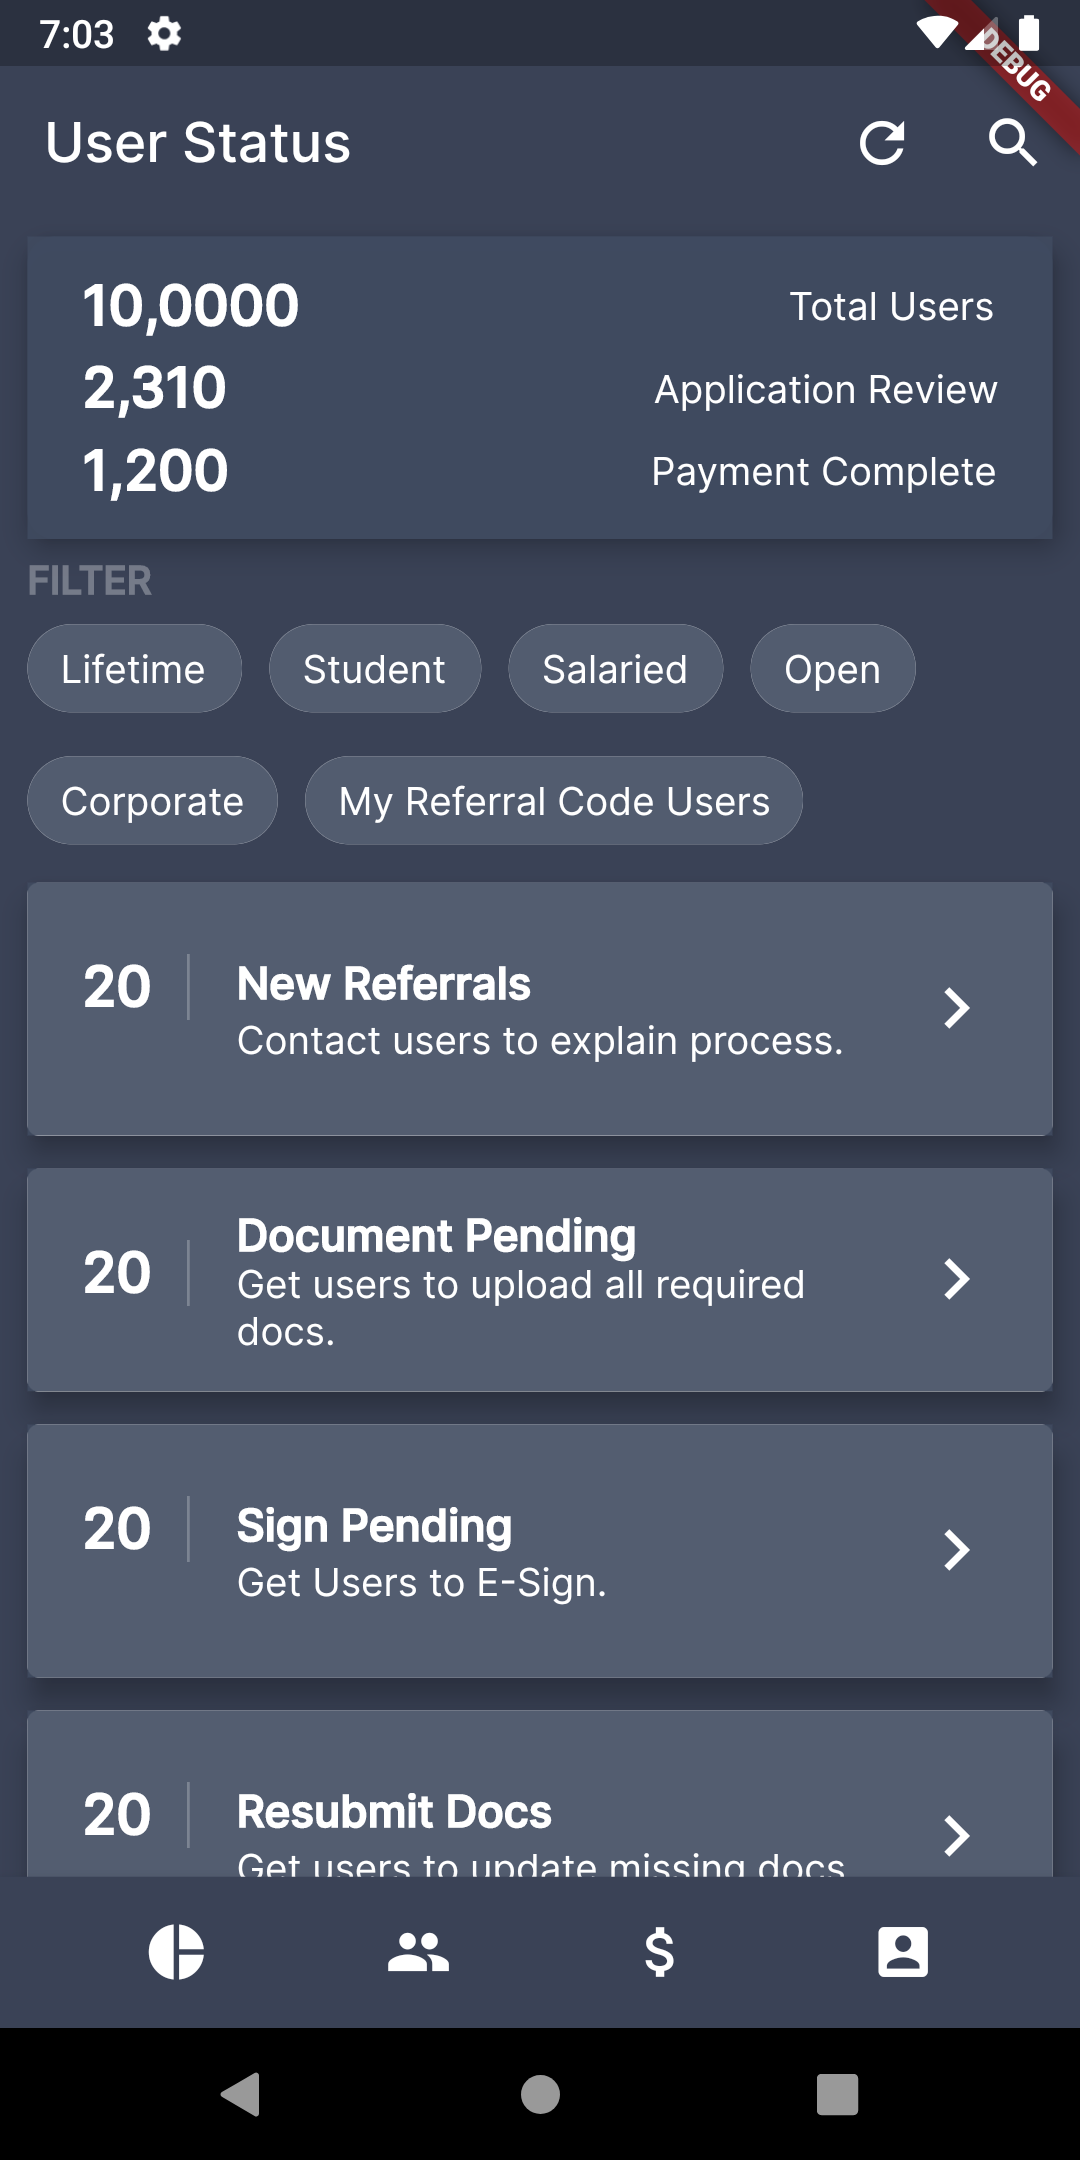
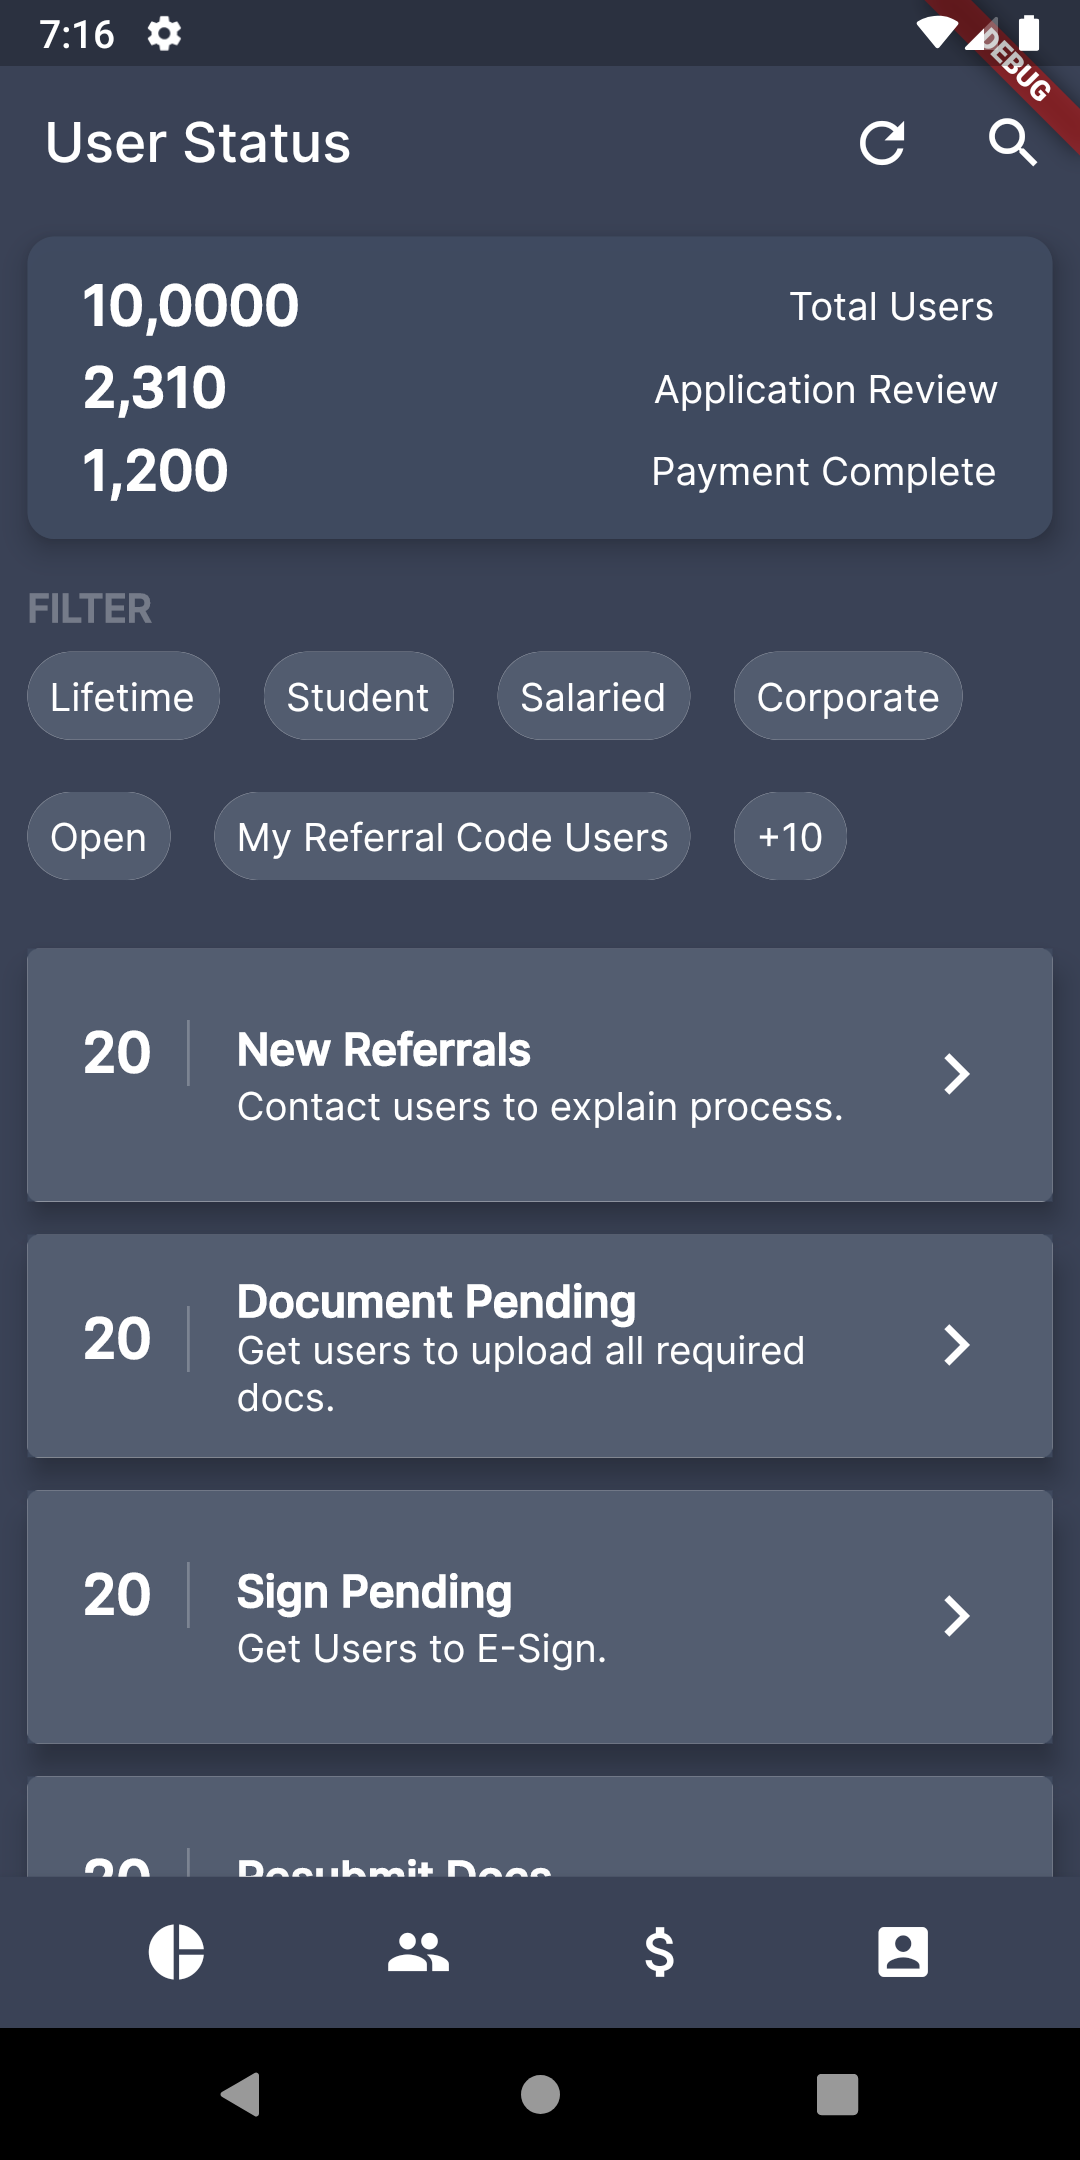
Fixed Roundness of first card and wrapped filter chips in WRAP Widget.

Changed region(s): [[0.0, 0.2481, 0.9778, 0.8685], [0.0611, 0.0, 0.0917, 0.031]]

diff --git a/lib/main.dart b/lib/main.dart
@@ -63,13 +63,17 @@ class _ListPageState extends State<ListPage> {
     ],
   );
 
-  final makeBody = Column(
+  static final makeBody = Column(
     crossAxisAlignment: CrossAxisAlignment.start,
     children: <Widget>[
       Card(
         elevation: 8.0,
         margin: new EdgeInsets.symmetric(horizontal: 10.0, vertical: 6.0),
-        shape: RoundedRectangleBorder(borderRadius: BorderRadius.circular(10.0)),
+        clipBehavior: Clip.antiAlias,
+        shape: RoundedRectangleBorder(
+          borderRadius: BorderRadius.circular(10.0),
+        ),
+        //shape:RoundedRectangleBorder(borderRadius: BorderRadius.circular(10.0), ),
         color: Color.fromRGBO(64, 75, 96, .9),
         child: InkWell(
             splashColor: Color.fromRGBO(58, 66, 86, 1.0),
@@ -135,72 +139,29 @@ class _ListPageState extends State<ListPage> {
                 ))),
       ),
       Padding(
-        padding: EdgeInsets.fromLTRB(10.0, 0, 5, 0),
+        padding: EdgeInsets.fromLTRB(10.0, 10.0, 5, 0),
         child: Text("FILTER",
             style:
                 TextStyle(color: Colors.white30, fontWeight: FontWeight.bold)),
       ),
-      Row(
-        mainAxisAlignment: MainAxisAlignment.start,
-        mainAxisSize: MainAxisSize.max,
-        children: <Widget>[
-          Row(
-            children: <Widget>[
-              Padding(
-                padding: EdgeInsets.fromLTRB(10.0, 0, 5, 0),
-                child: Chip(
-                  label:
-                      Text('Lifetime', style: TextStyle(color: Colors.white)),
-                  backgroundColor: Color.fromRGBO(64, 75, 96, .9),
-                ),
-              ),
-              Padding(
-                padding: EdgeInsets.fromLTRB(5, 0, 5, 0),
-                child: Chip(
-                  label: Text('Student', style: TextStyle(color: Colors.white)),
-                  backgroundColor: Color.fromRGBO(64, 75, 96, .9),
-                ),
-              ),
-              Padding(
-                padding: EdgeInsets.fromLTRB(5, 0, 5, 0),
-                child: Chip(
-                  label:
-                      Text('Salaried', style: TextStyle(color: Colors.white)),
-                  backgroundColor: Color.fromRGBO(64, 75, 96, .9),
-                ),
-              ),
-              Padding(
-                padding: EdgeInsets.fromLTRB(5, 0, 5, 0),
-                child: Chip(
-                  label: Text('Open', style: TextStyle(color: Colors.white)),
-                  backgroundColor: Color.fromRGBO(64, 75, 96, .9),
-                ),
-              ),
-            ],
-          ),
-        ],
-      ),
-      Row(
-        children: <Widget>[
-          Padding(
-            padding: EdgeInsets.fromLTRB(10.0, 0, 5, 0),
-            child: Chip(
-              label: Text('Corporate', style: TextStyle(color: Colors.white)),
-              backgroundColor: Color.fromRGBO(64, 75, 96, .9),
-            ),
-          ),
-          Padding(
-            padding: EdgeInsets.fromLTRB(5, 0, 5, 0),
-            child: Chip(
-              label: Text('My Referral Code Users',
-                  style: TextStyle(color: Colors.white)),
-              backgroundColor: Color.fromRGBO(64, 75, 96, .9),
-            ),
-          ),
-        ],
+      Container(
+        child: Wrap(
+          spacing: 3.0, // gap between adjacent chips
+          runSpacing: 3.0, // gap between lines
+          children: <Widget>[
+            chipDesign("Lifetime", 10.0),
+            chipDesign("Student", 0.0),
+            chipDesign("Salaried", 0.0),
+            chipDesign("Corporate", 0.0),
+            chipDesign("Open", 0.0),
+            chipDesign("My Referral Code Users", 0.0),
+            chipDesign("+10", 0.0),
+          ],
+        ),
       ),
       Expanded(
         child: ListView.builder(
+          padding: EdgeInsets.fromLTRB(0.0, 10.0, 0.0, 0.0),
           scrollDirection: Axis.vertical,
           shrinkWrap: true,
           itemCount: 10,
@@ -212,6 +173,18 @@ class _ListPageState extends State<ListPage> {
     ],
   );
 }
+
+Widget chipDesign(String label, double padding) => Container(
+      child: Chip(
+        label: Text(
+          label,
+          style: TextStyle(color: Colors.white),
+        ),
+        backgroundColor: Color.fromRGBO(64, 75, 96, .9),
+        padding: EdgeInsets.fromLTRB(0.0, 0.0, 0.0, 0.0),
+      ),
+      margin: EdgeInsets.only(left: 10, right: 3, top: 0, bottom: 0),
+    );
 
 Card makeCard(UserFunnels userFunnels) => Card(
       elevation: 8.0,
